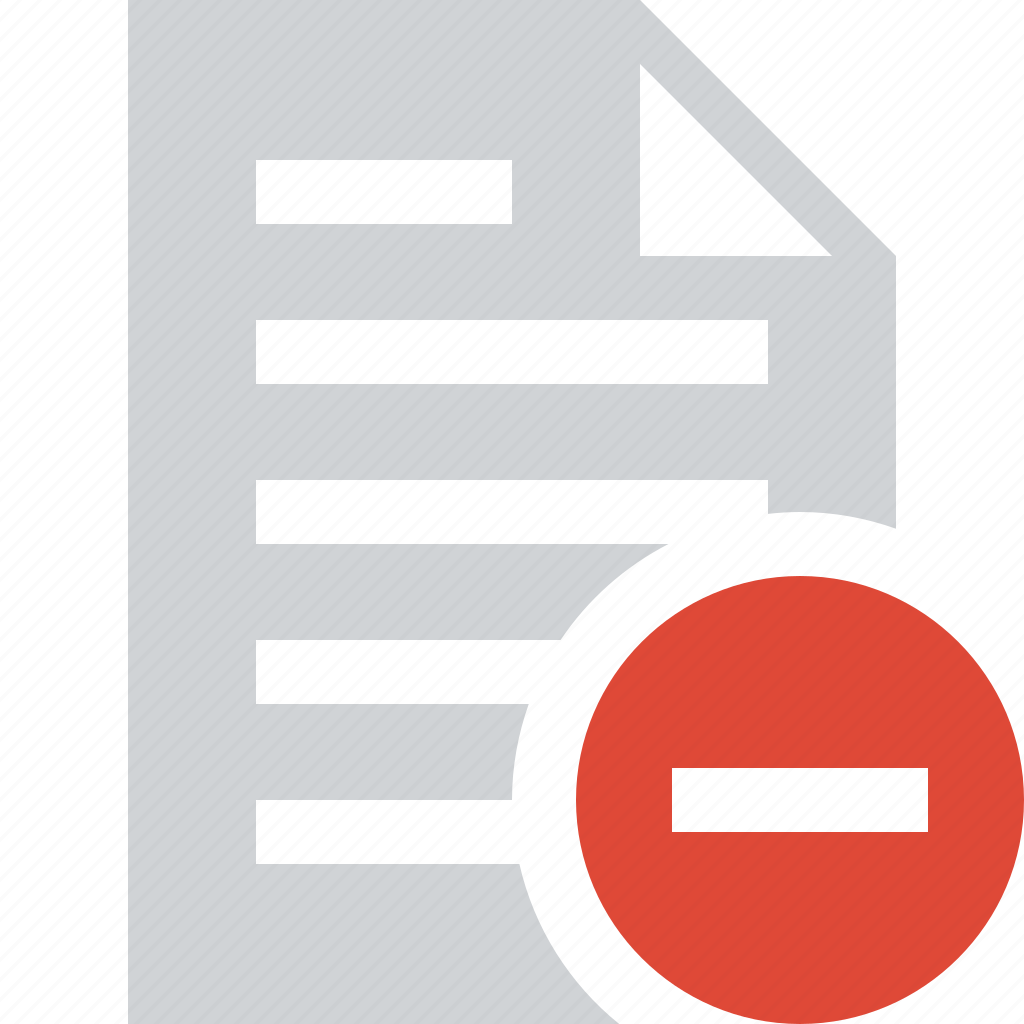
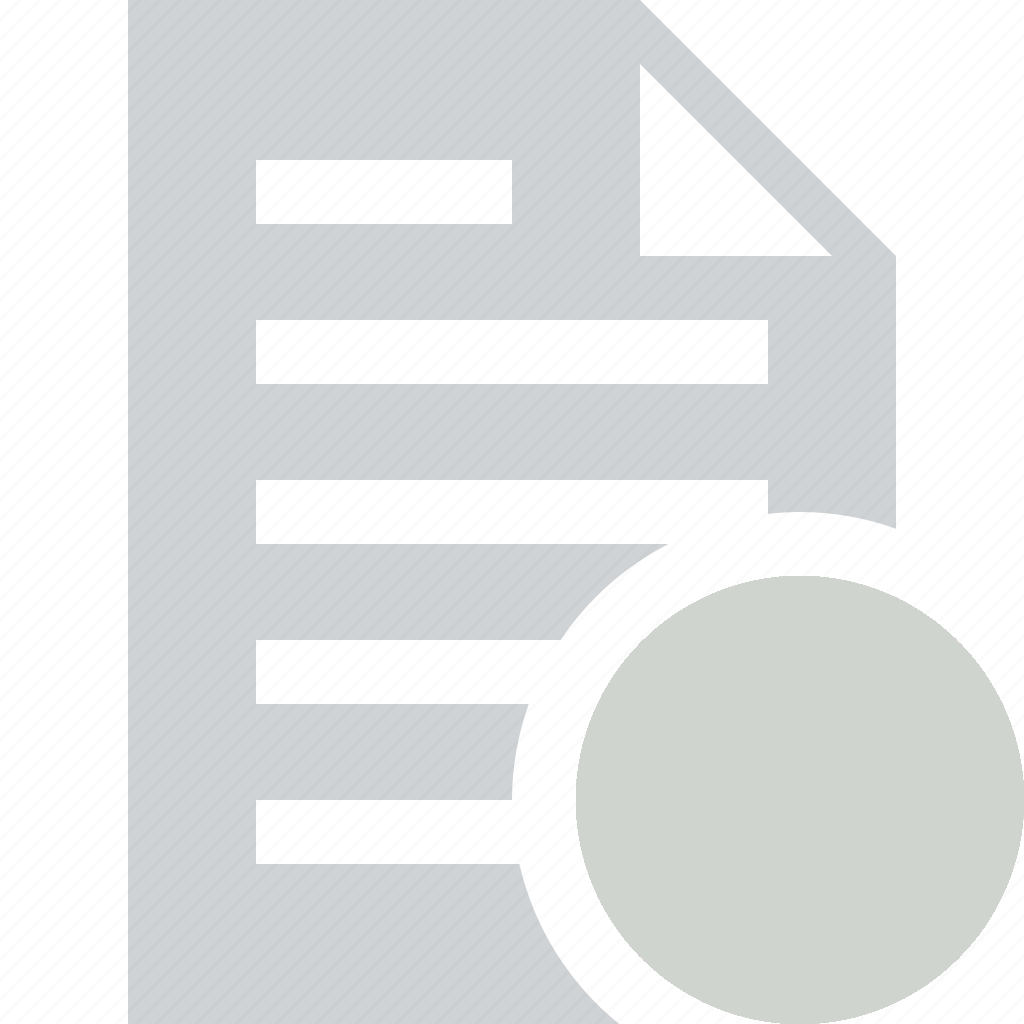
Changed no efile colors

Changed region(s): [[0.5625, 0.5625, 1.0, 1.0]]

diff --git a/public/js/ffl-api-widget.js b/public/js/ffl-api-widget.js
@@ -608,7 +608,7 @@
                 var phone_sects = phone.match(/^(\d{3})(\d{3})(\d{4})$/);
                 phone = phone_sects[1] + '-' + phone_sects[2] + '-' + phone_sects[3];
             }
-            var markerColor = {"color": "#e51f47" }
+            var markerColor = {"color": "#cfd4ce" }
             if (e.ffl_on_file){
                 markerColor = {"color": "#28e51f" }
             }
@@ -2339,7 +2339,7 @@
             .columns {
                 display: flex;
                 justify-content: center;
-                align-items: baseline;
+                //align-items: baseline;
                 padding-bottom: 5px !important;
             }
             .column {
